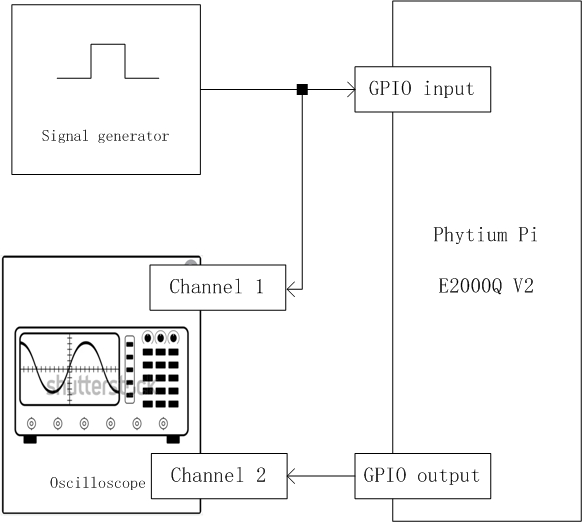
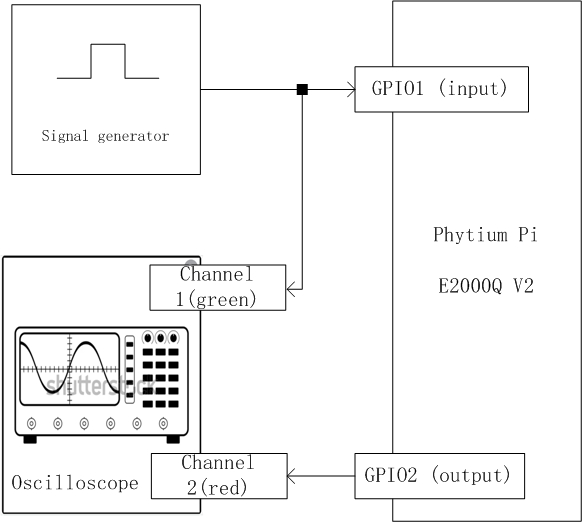
modify signal generator

diff --git a/main.tex b/main.tex
@@ -616,7 +616,7 @@ The experimental setup consists of the following equipment:
   \item Jumper Wires  
 \end{itemize}
 
-The signal generator drives a GPIO input connected simultaneously to both the Phytium Pi development board and the oscilloscope. The development board, upon detecting the input trigger, produces an output GPIO signal, which is also monitored by the oscilloscope Figure~\ref{fig:oscilloscope}.  
+The signal generator is connected simultaneously to the GPIO of the Phytium Pi development board and the oscilloscope. The development board, upon detecting the input trigger, produces an output GPIO signal, which is also monitored by the oscilloscope Figure~\ref{fig:oscilloscope}.  
 
 To evaluate determinism, the oscilloscope’s persistence mode is enabled to visualize potential variations in the output signal. The input signal frequency is set to 200~kHz with a voltage range of 0--3.3~V. In order to better capture timing details, the oscilloscope time base is reduced from 2~µs/div to 100~ns/div, thereby improving horizontal resolution. The persistence overlay allows us to observe long-term stability and quantify jitter.
 
